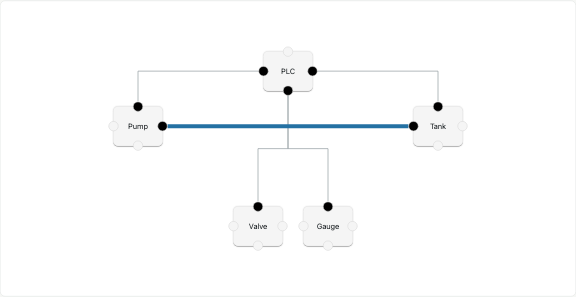
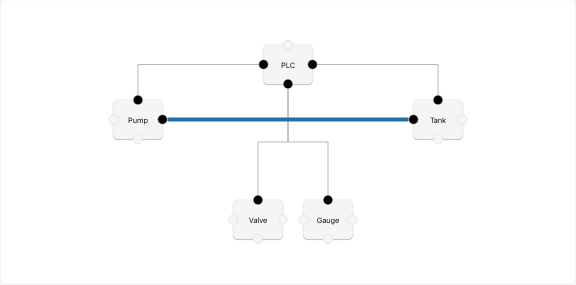
Catalog: nested regions, previews for the new examples, smoke check accepts examples without ExampleCanvas; BezierSpline math as code

diff --git a/samples/Catalog/Infrastructure/GuideRegistry.cs b/samples/Catalog/Infrastructure/GuideRegistry.cs
@@ -83,11 +83,20 @@ public static partial class GuideRegistry
         var start = lines.FindIndex(l => Regex.IsMatch(l, $@"#region\s+{Regex.Escape(name)}\b"));
         if (start < 0)
             return null;
-        var end = lines.FindIndex(start + 1, l => l.Contains("#endregion"));
+        // Regions nest: find the matching #endregion, and leave the markers of inner regions out of the excerpt.
+        var depth = 0;
+        var end = -1;
+        for (var i = start + 1; i < lines.Count && end < 0; i++)
+        {
+            if (lines[i].Contains("#region"))
+                depth++;
+            else if (lines[i].Contains("#endregion") && depth-- == 0)
+                end = i;
+        }
         if (end < 0)
             return null;
 
-        var body = lines.Skip(start + 1).Take(end - start - 1).ToList();
+        var body = lines.Skip(start + 1).Take(end - start - 1).Where(l => !l.Contains("#region") && !l.Contains("#endregion")).ToList();
         var indent = body.Where(l => l.Trim().Length > 0).Select(l => l.Length - l.TrimStart().Length).DefaultIfEmpty(0).Min();
         return string.Join('\n', body.Select(l => l.Length >= indent ? l[indent..] : l.TrimStart()));
     }

diff --git a/src/Flow.Diagrams.Core/Geometry/BezierSpline.cs b/src/Flow.Diagrams.Core/Geometry/BezierSpline.cs
@@ -5,7 +5,7 @@ namespace Flow.Diagrams.Core.Geometry;
 /// <summary>
 /// Bezier Spline methods
 /// </summary>
-/// <remarks>
+/// <remarks><code>
 /// Modified: Peter Lee (peterlee.com.cn &lt; at &gt; gmail.com)
 ///   Update: 2009-03-16
 /// 
@@ -113,7 +113,7 @@ namespace Flow.Diagrams.Core.Geometry;
 ///               P1[n-1] + 3.5P1[n]   = (8Q[n-1] + Q[n]) / 2
 ///  
 /// From this set of equations, P1[1..n] are easy but tedious to solve.
-/// </remarks>
+/// </code></remarks>
 	public static class BezierSpline
 {
     /// <summary>
